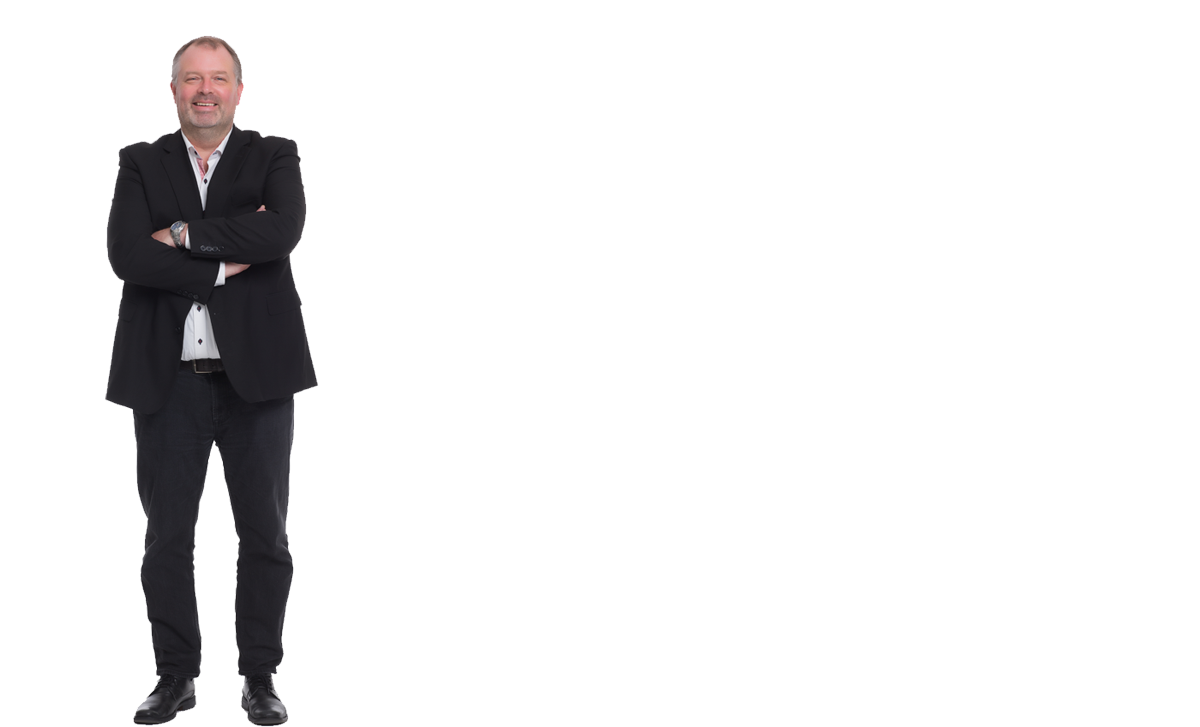
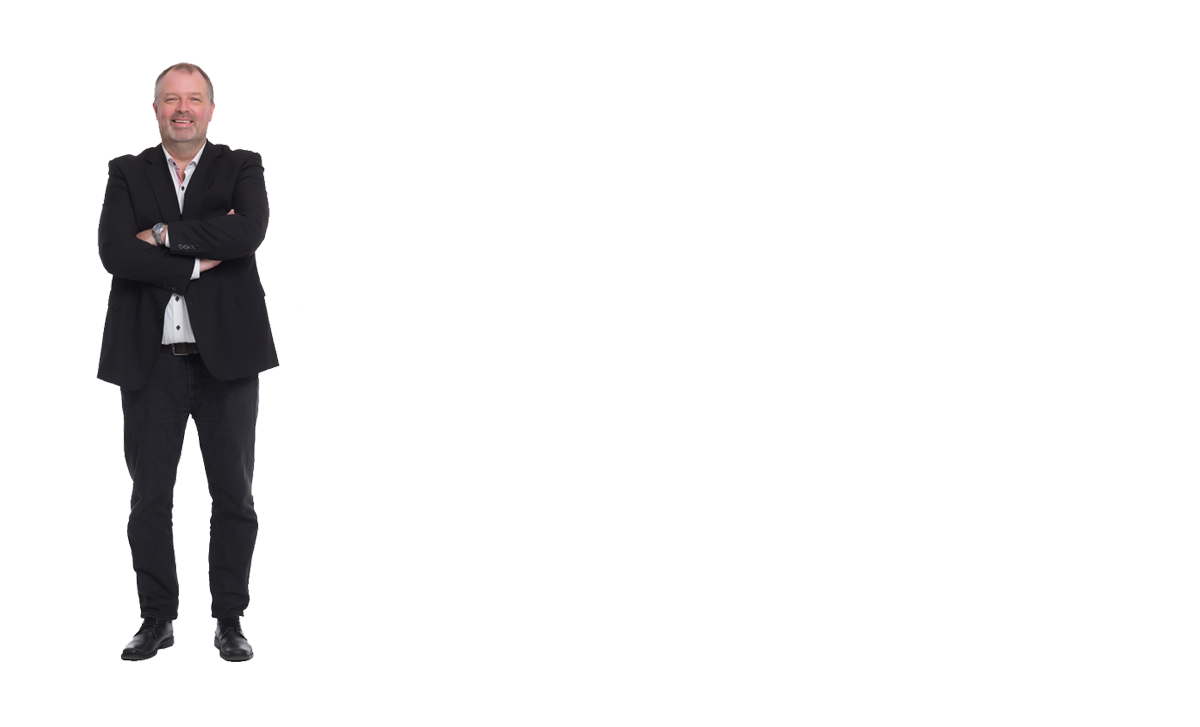
restyled frontviewpage  and also changed settings for bounceInEffect

Changed region(s): [[0.0617, 0.0303, 0.2775, 0.9986]]

diff --git a/site/views/_layout/partial/partial-menu.html b/site/views/_layout/partial/partial-menu.html
@@ -19,7 +19,7 @@
             </ul>
         </div>
     </div>
-    <div style="position: relative; height: 300px;">
-        <div><img u="image" src="@Path['~/static/img/anders.png']" /></div>
+    <div style="position: relative; height: 250px;">
+        <div><img u="image" class="frontpicture" src="@Path['~/static/img/anders.png']" /></div>
     </div>
 </section>

diff --git a/app/Input.Site.Web/assets/js/articles.js b/app/Input.Site.Web/assets/js/articles.js
@@ -58,9 +58,8 @@ $(window).scroll(function () {
 
 jQuery(document).ready(function() {
     jQuery('.post').addClass("hidden").viewportChecker({
-        classToAdd: 'visible animated bounceInLeft',
-        offset: 200,
-        fade:233
+        classToAdd: 'visible animated bounceInLeft fadeIn',
+        offset: 200
     });
 });
 

diff --git a/app/Input.Site.Web/assets/css/menu.css b/app/Input.Site.Web/assets/css/menu.css
@@ -201,3 +201,6 @@ section.logo {
 .visible{
     opacity:1;
 }
+.frontpicture{
+    width: 100%;
+}
